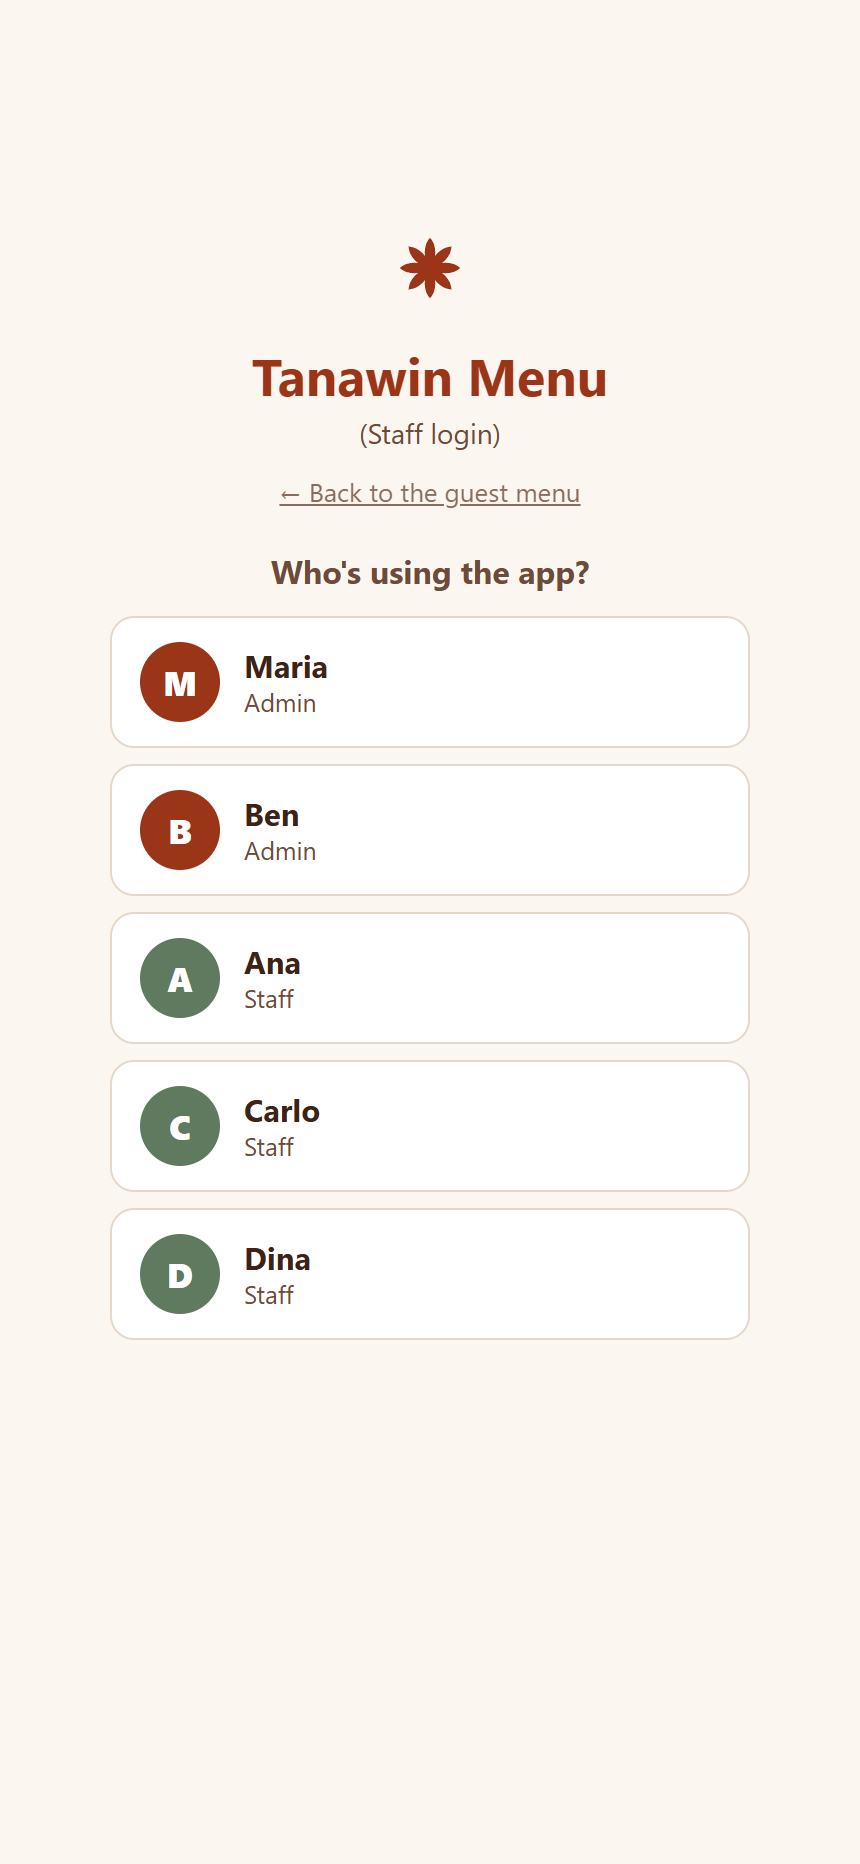
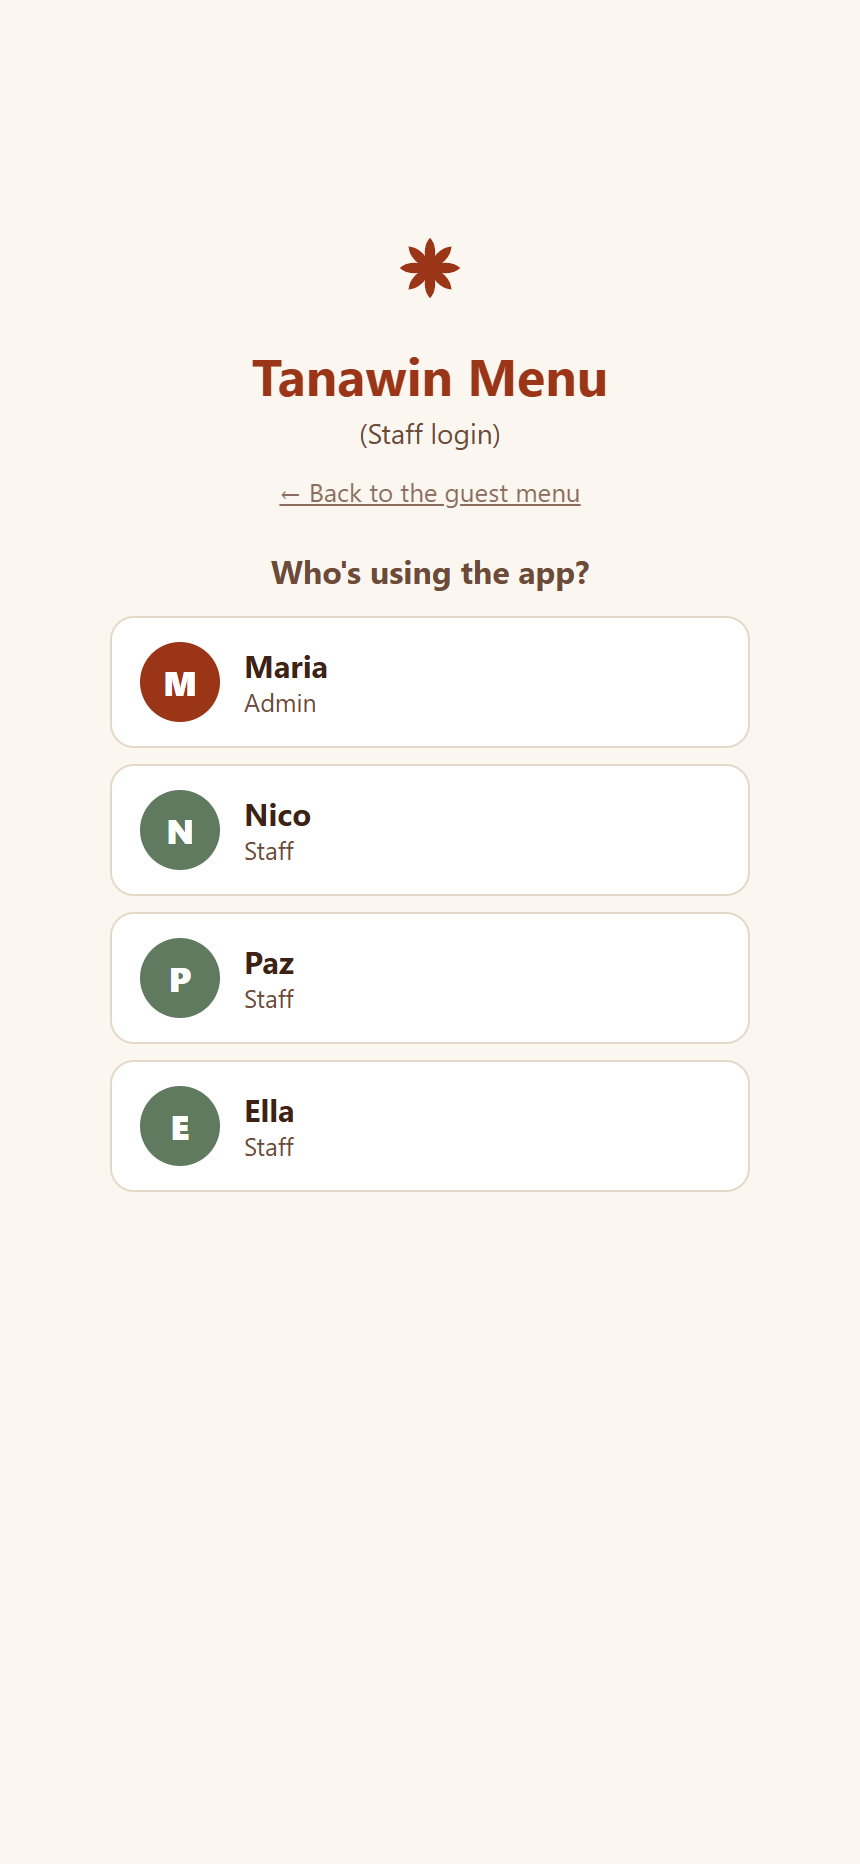
Docs: refresh the portfolio screenshots
All eight frames re-shot against the current code, so the staff side
shows "+ Place an order" rather than the old "Paper order" pill, and the
sign-in screen shows invented staff instead of the real roster.

The archive frame is replaced by one showing a food order, a towel
request and a room-service order with its captured signature in a single
queue — that shared queue is the thing worth seeing, and a list of months
was not.

Shot with a rebuilt rig: an in-memory stand-in for the database, served
by a local server that swaps out the real client and refuses to serve the
page at all if that swap fails. The capture aborts any request not bound
for localhost and prints what it blocked; this run blocked nothing
because nothing was attempted. Dishes, prices, room numbers, staff names,
guest names, access codes and order numbers are invented end to end.

The rig lives outside every repo now. The previous one was written to a
Windows temp folder and had been cleared by the time it was next needed.

diff --git a/README.md b/README.md
@@ -18,8 +18,8 @@ Everything shown is made-up data. The dishes, prices, staff, rooms, access codes
   </tr>
   <tr>
     <td align="center"><img src="docs/screenshots/staff-1-signin.png" width="200" alt="Staff sign-in"><br><sub>Staff sign-in</sub></td>
-    <td align="center"><img src="docs/screenshots/staff-2-orders.png" width="200" alt="Live order and request queue"><br><sub>Orders and guest requests</sub></td>
-    <td align="center"><img src="docs/screenshots/staff-3-archive.png" width="200" alt="Monthly archive"><br><sub>Monthly archive</sub></td>
+    <td align="center"><img src="docs/screenshots/staff-2-orders.png" width="200" alt="Live order queue"><br><sub>Live order queue</sub></td>
+    <td align="center"><img src="docs/screenshots/staff-3-requests.png" width="200" alt="Food orders and guest requests in one queue"><br><sub>Orders and requests, one queue</sub></td>
     <td align="center"><img src="docs/screenshots/staff-4-menu.png" width="200" alt="Menu editor"><br><sub>Menu editor</sub></td>
   </tr>
 </table>
